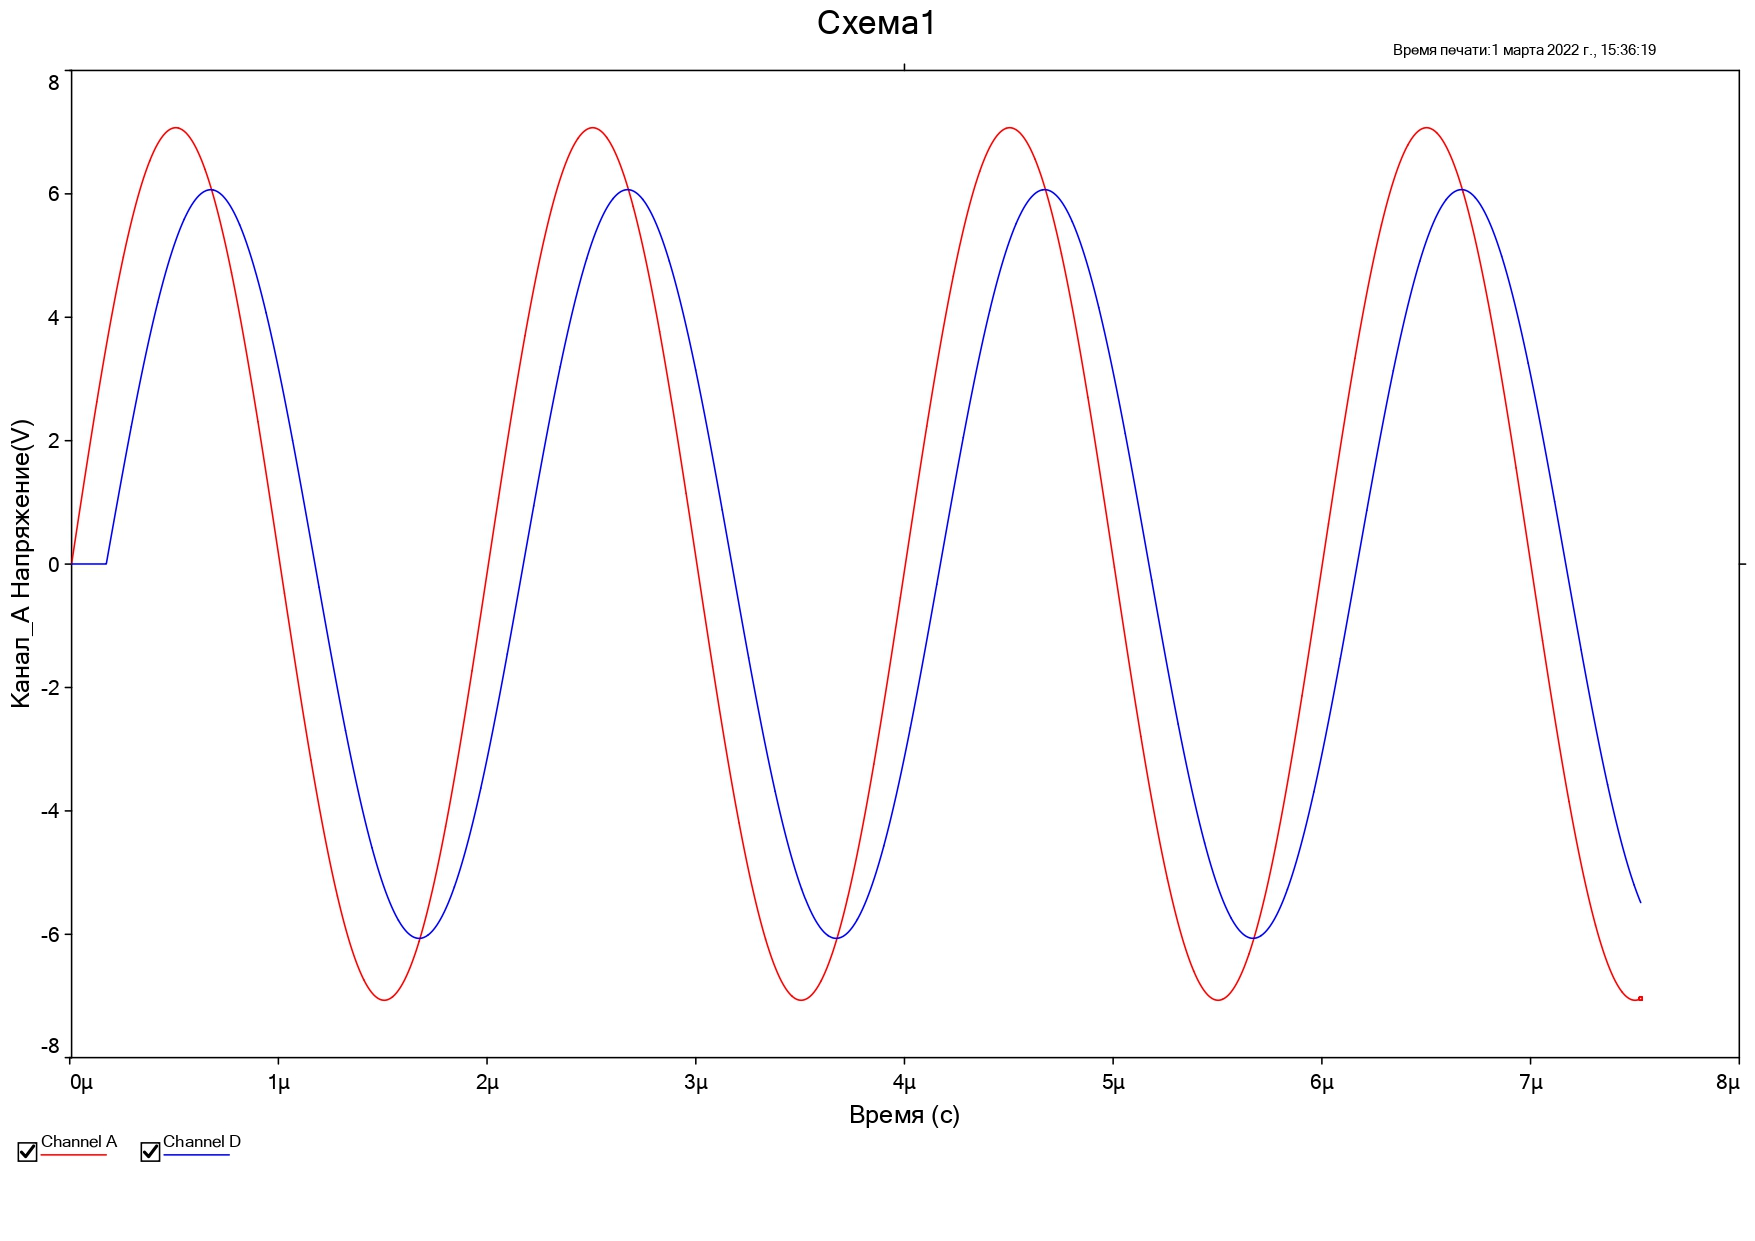
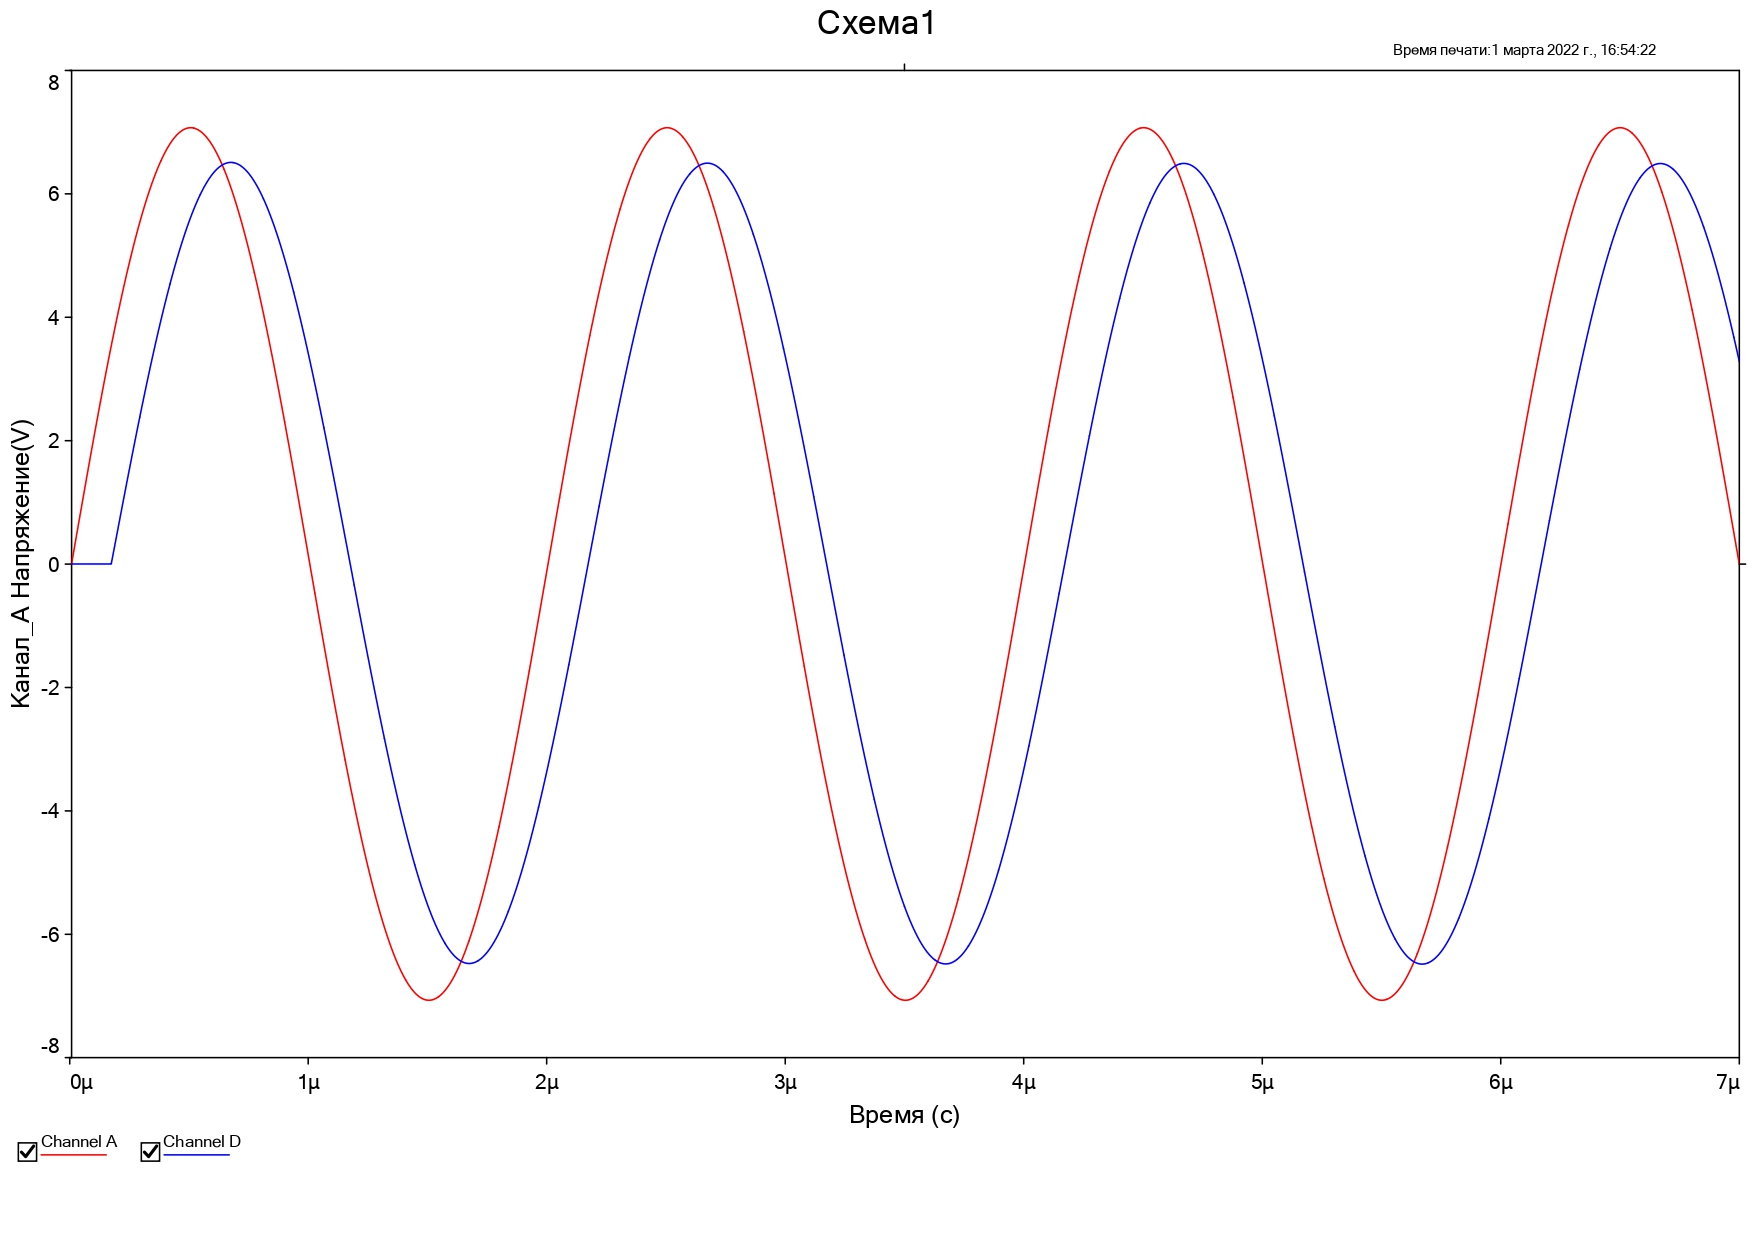
The second laboratory: update

diff --git a/lab2/laba.tex b/lab2/laba.tex
@@ -63,14 +63,28 @@ Z_0 = \sqrt{\frac{L}{C}} = \sqrt{\frac{11,11\cdot 10^{-6}}{1\cdot 10^{-12}}}\app
 L*C = \frac{1}{c^2}=11,11\cdot 10^{-18}\Rightarrow C = \frac{11,11\cdot 10^{-18}}{11,11\cdot 10^{-6}} = 1 \text{ пФ}\\
 G = \frac{RC}{L} = \frac{1\cdot 10^{-12}}{11,11\cdot 10^{-6}} = 9\cdot 10^{-8} = 90\cdot 10^{-9} = 90 \text{ нСм/м}\\
 $
-Исследуем модель линии связи для различных частот входного сигнала:
+1. Исследуем модель линии связи для различных частот входного сигнала:
 \begin{itemize}
     \item Осциллограмма при 500 кГц\\
         \includegraphics[width=1\linewidth]{1/500kgzosc.jpg}
     \item Осциллограмма при 800 кГц\\
         \includegraphics[width=1\linewidth]{1/800kgzosc.jpg}
 \end{itemize}
-
+2. Осциллограмма при R = 10 Ом/м:\\
+\includegraphics[width=1\linewidth]{1/10ommosc.jpg}
+3. Запаздывание выходного сигнала относильно входного ($T_2-T_1$):
+\begin{itemize}
+    \item Для 500 кГц: \\$\tau_1 = 147*10^{-9}$с
+    \item Для 800 кГц: \\$\tau_2 = 163*10^{-9}$с
+\end{itemize}
+4. Определеим запаздывание выходного сигнала относительно входного на длину линии в режиме бегущей волны:\\
+$\beta = 2*\pi*f(T_2-T_1) = 2*\pi*\tau \Rightarrow \\ 
+\Rightarrow \beta_1 = 2 * 3.14 * 147 * 10^{-9} = 9,23 * 10^{-6}\\ 
+\beta_2 = 2 * 3.14 * 163 * 10^{-9} = 10,24 * 10^{-6}\\ 
+$
+5. Амплитуды входного $U_1$ и выходного напряжения $U_2$:\\
+$U_1 = 7,05$В\\
+$U_2 = 6,91$В\\
 \subsection{<<ЛС с потерями в режиме несогласованной разомкнутой линии>>}
 \subsection{<<ЛС с потерями в режиме несогласованной замкнутой линии>>}
 \subsection{<<ЛС с потерями в режиме несогласованной нагрузки>>}
